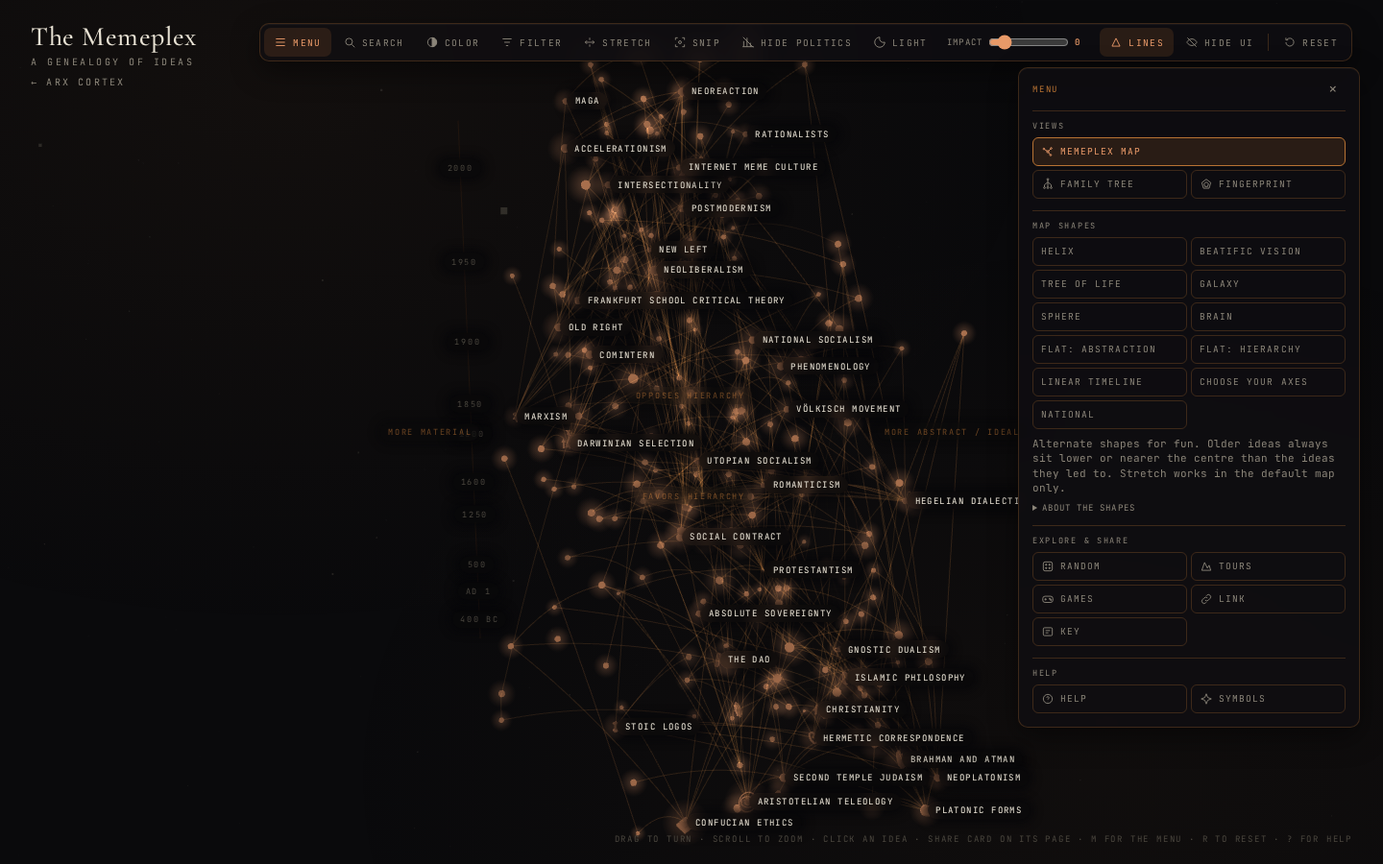
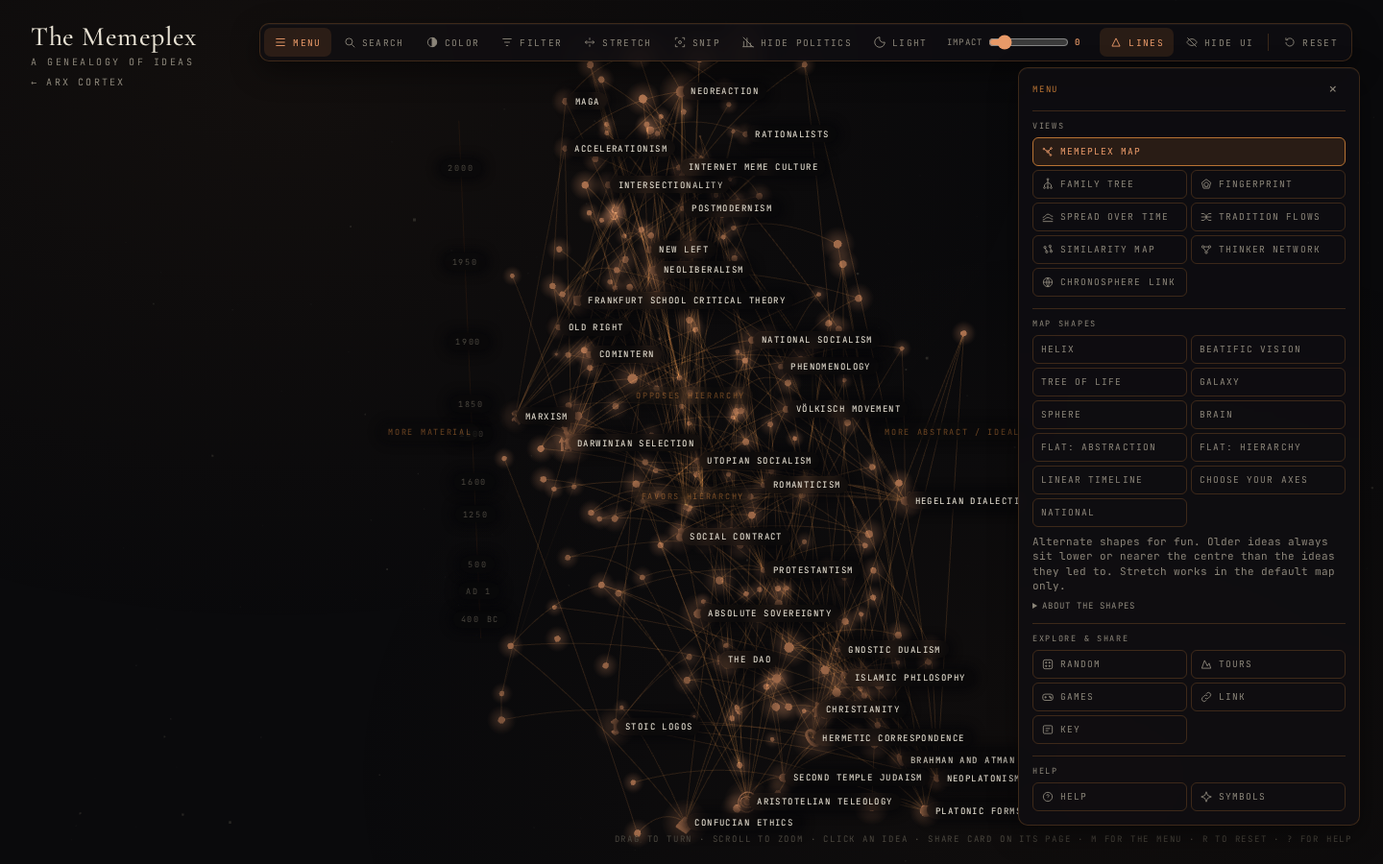
Similarity map, Thinker network and Chronosphere link views

diff --git a/docs/review-shots/snip-share/memeplex.html b/docs/review-shots/snip-share/memeplex.html
@@ -2290,7 +2290,7 @@ body.uihidden #vz{--vzt:14px!important}body.uihidden #vz .vc,body.uihidden #vz .
   let wasLight = document.body.classList.contains('light'), wasHid = false;
   new MutationObserver(() => { const l = document.body.classList.contains('light'), h = document.body.classList.contains('uihidden'); if (l !== wasLight || h !== wasHid) { wasLight = l; wasHid = h; if (cur) { top(); render(); } } }).observe(document.body, { attributes: true, attributeFilter: ['class'] });
   // an idea picked from search (or the map's panels) retargets views that follow one idea; Open page shows the usual idea panel
-  const onIdea = id => { if (skip || !cur || !V[cur].idea || !byId[id]) return false; V[cur].idea(P, id); render(); return true; };
+  const onIdea = id => { if (skip || !cur || !V[cur].idea || !byId[id]) return false; const was = JSON.stringify(P); V[cur].idea(P, id); if (JSON.stringify(P) === was) return false; render(); return true; }; // unchanged (e.g. no bridges): fall back to the idea page
   const page = id => { if (!byId[id]) return; skip = true; try { focusIdea(id); } finally { skip = false; } };
   // Snip & share: draw the visible chart (SVG rasterised) for the snipped rectangle, at the renderer's pixel ratio
   async function grab(r, k) { const out = document.createElement('canvas'); out.width = Math.max(1, Math.round(r.w * k)); out.height = Math.max(1, Math.round(r.h * k));
@@ -2445,6 +2445,160 @@ body.uihidden #vz{--vzt:14px!important}body.uihidden #vz .vc,body.uihidden #vz .
       const none = SI._none ? SI._none.w : 0;
       return { svg: Z.svg(W, ch + T0 * 2, g, `Tradition flows ${P.by === 'era' ? 'by era' : 'by country'}`),
         foot: `<b>How it is measured.</b> ${P.by === 'era' ? `Each of the ${ideas.length} ideas is one unit` : `Each country listing is one unit (${Math.round(total)} listings across ${T.length} countries; an idea listed by two countries counts once for each)`}, split equally among the root traditions it descends from through the lineage lines; a root idea counts for its own tradition, plus any older root it descends from. So an idea descended from Platonism and Christianity puts half a unit into each. ${none ? `${Math.round(none)} unit${Math.round(none) === 1 ? '' : 's'} come from ideas with no mapped root ancestor. ` : ''}Ribbon width is proportional to units. Hover a ribbon for its share; click a tradition for its family tree.` }; } });
+})();
+/* ---------- SIMILARITY MAP: ideas placed by their 24 axis scores only (lineage plays no part). Principal component analysis:
+   the two directions along which the score vectors vary most; power iteration from a fixed start, so the layout is deterministic. ---------- */
+(() => { const Z = window.__viz;
+  const PCA = (() => { const X = ideas.map(d => A.map(k => sc(d, k))), n = X.length, m = A.length, mu = A.map((_, j) => X.reduce((s, r) => s + r[j], 0) / n), Xc = X.map(r => r.map((v, j) => v - mu[j]));
+    const C = A.map((_, i) => A.map((_, j) => Xc.reduce((s, r) => s + r[i] * r[j], 0) / (n - 1))), tr = C.reduce((s, r, i) => s + r[i], 0), comps = [];
+    for (let c = 0; c < 2; c++) { let v = A.map((_, j) => 1 + j / m); for (let it = 0; it < 500; it++) { let w = C.map(r => r.reduce((s, x, j) => s + x * v[j], 0)); comps.forEach(([u]) => { const p = w.reduce((s, x, j) => s + x * u[j], 0); w = w.map((x, j) => x - p * u[j]); }); const nr = Math.hypot(...w) || 1; v = w.map(x => x / nr); }
+      const big = v.reduce((b, x, j) => Math.abs(x) > Math.abs(v[b]) ? j : b, 0); if (v[big] < 0) v = v.map(x => -x);
+      const lam = v.reduce((s, x, i) => s + x * C[i].reduce((t, y, j) => t + y * v[j], 0), 0); comps.push([v, lam]); }
+    const P = Object.fromEntries(ideas.map((d, i) => [d.id, comps.map(([v]) => Xc[i].reduce((s, x, j) => s + x * v[j], 0))]));
+    return { P, comps, tr, X: Object.fromEntries(ideas.map((d, i) => [d.id, X[i]])) }; })();
+  const dist = (a, b) => Math.hypot(...PCA.X[a].map((v, j) => v - PCA.X[b][j]));
+  const near = (id, k = 6) => ideas.filter(d => d.id !== id).map(d => [d.id, dist(id, d.id)]).sort((p, q) => p[1] - q[1] || p[0].localeCompare(q[0])).slice(0, k);
+  const load = c => { const v = PCA.comps[c][0]; return A.map((k, j) => [k, v[j]]).sort((p, q) => Math.abs(q[1]) - Math.abs(p[1])).slice(0, 3); };
+  const ends = c => { const L = load(c), pos = L.filter(q => q[1] > 0).map(q => axLabel(q[0])), neg = L.filter(q => q[1] < 0).map(q => axLabel(q[0]));
+    return [neg.length ? 'more ' + neg.join(', ') : 'less ' + pos.join(', '), pos.length ? 'more ' + pos.join(', ') : 'less ' + neg.join(', ')]; };
+  window.__simPCA = { pos: PCA.P, comps: PCA.comps.map(([v, l]) => [v.slice(), l / PCA.tr]), near };
+  Z.add('similar', { label: 'Similarity map', title: 'Similarity map: ideas placed by how alike their scores are, ignoring lineage', icon: '<circle cx="7" cy="8" r="2"/><circle cx="16" cy="6" r="2"/><circle cx="10" cy="16" r="2"/><circle cx="18" cy="15" r="2"/><path d="M7 8l3 8M16 6l2 9"/>',
+    keys: ['f'], defaults: () => ({ f: '' }), fix: P => { if (P.f && !byId[P.f]) P.f = ''; }, idea: (P, id) => { P.f = id; }, subject: P => P.f ? byId[P.f].name : '',
+    note: () => `Each idea is placed by its scores on all ${A.length} axes; lineage lines play no part. Ideas close together score alike, even if they never met. Click an idea to see its nearest neighbours.`,
+    controls: P => `<label>Idea <select data-p="f" aria-label="Highlight an idea">${Z.ideaOpts(P.f, ideas, '— none —')}</select></label>${P.f ? `<button type="button" data-open="${P.f}">Open idea page</button>` : ''}`,
+    links: k => [`.e[data-a="${k}"]`],
+    click: (P, id) => { if (!byId[id]) return; P.f = P.f === id ? '' : id; Z.render(); },
+    render(P, W, H) { const c = Z.pal(), mob = W < 560, M = mob ? 14 : 40, S = Math.max(300, Math.min(W - 2 * M, Math.max(H - 70, 360) * 1.25)), Hh = Math.max(300, Math.min(S * 0.78, mob ? S * 1.15 : H - 60));
+      const pts = Object.values(PCA.P), xs = pts.map(p => p[0]), ys = pts.map(p => p[1]), x0 = Math.min(...xs), x1 = Math.max(...xs), y0 = Math.min(...ys), y1 = Math.max(...ys);
+      const ox = (W - S) / 2, X = v => ox + 12 + (S - 24) * (v - x0) / (x1 - x0 || 1), Y = v => 20 + (Hh - 44) * (1 - (v - y0) / (y1 - y0 || 1)), J = (d, k) => (hash(d.id + '|sim' + k) - 0.5) * 6;
+      const at = {}; ideas.forEach(d => { const p = PCA.P[d.id]; at[d.id] = [X(p[0]) + J(d, 'x'), Y(p[1]) + J(d, 'y')]; });
+      const [ex0, ex1] = ends(0), [ey0, ey1] = ends(1), v0 = (100 * PCA.comps[0][1] / PCA.tr).toFixed(0), v1 = (100 * PCA.comps[1][1] / PCA.tr).toFixed(0);
+      let g = `<line x1="${ox + 12}" y1="${Y(0)}" x2="${ox + S - 12}" y2="${Y(0)}" stroke="${c.faint}" stroke-dasharray="2 4"/><line x1="${X(0)}" y1="20" x2="${X(0)}" y2="${Hh - 24}" stroke="${c.faint}" stroke-dasharray="2 4"/>
+        <text x="${ox + 12}" y="${Hh - 6}" font-size="9" class="dim">\u2190 ${esc(Z.short(ex0, mob ? 20 : 60))}</text><text x="${ox + S - 12}" y="${Hh - 6}" font-size="9" text-anchor="end" class="dim">${esc(Z.short(ex1, mob ? 20 : 60))} \u2192</text>
+        <text x="${ox + 14}" y="12" font-size="9" class="dim">\u2191 ${esc(Z.short(ey1, mob ? 44 : 70))}</text>`;
+      const sel = P.f && byId[P.f] ? P.f : '', nb = sel ? near(sel) : [];
+      nb.forEach(([k]) => { const [a1, b1] = at[sel], [a2, b2] = at[k]; g += `<line class="e" data-a="${sel}" x1="${a1}" y1="${b1}" x2="${a2}" y2="${b2}" stroke="${c.bright}" stroke-width="1.2" stroke-opacity=".8"/>`; });
+      const order = [...ideas].sort((a, b) => (a.imp || 0) - (b.imp || 0));
+      order.forEach(d => { const [x, y] = at[d.id], r = 2.6 + (d.imp || 0) / 28, on = d.id === sel || nb.some(q => q[0] === d.id), nn = near(d.id, 3).map(q => byId[q[0]].name).join(', ');
+        g += `<g class="nd${on ? ' on' : ''}" data-id="${d.id}" tabindex="0" role="button" aria-label="${esc(d.name)}" data-tip="${esc(d.name)} · ${esc(fmtYear(d.year, d.year_approx))} · most alike: ${esc(nn)}"><circle cx="${x}" cy="${y}" r="${r}" fill="${Z.famCol(d)}" fill-opacity="${sel && !on ? 0.35 : 0.9}" stroke="${d.id === sel ? c.ink : c.bg}" stroke-width="${d.id === sel ? 2 : 0.6}"/><circle cx="${x}" cy="${y}" r="${Math.max(r, 8)}" fill="transparent"/></g>`; });
+      // labels: selected + neighbours first, then by impact, skipping any that would overlap
+      const boxes = [], lab = []; [...(sel ? [sel, ...nb.map(q => q[0])] : []), ...[...ideas].sort((a, b) => (b.imp || 0) - (a.imp || 0)).map(d => d.id)].forEach(id => { if (lab.length >= (mob ? 22 : 60) && id !== sel && !nb.some(q => q[0] === id)) return;
+        if (lab.includes(id)) return; const [x, y] = at[id], t = Z.short(byId[id].name, 26), w = t.length * 5.6 + 4, b = [x + 5, y - 11, x + 5 + w, y + 1]; if (b[2] > W - 2) { b[0] -= w + 10; b[2] -= w + 10; }
+        if (boxes.some(q => b[0] < q[2] && b[2] > q[0] && b[1] < q[3] && b[3] > q[1])) return; boxes.push(b); lab.push(id);
+        g += `<text x="${b[0]}" y="${y - 2}" font-size="9.5" style="pointer-events:none${id === sel ? ';font-weight:700' : ''}" ${id === sel || nb.some(q => q[0] === id) ? 'class="amb"' : ''}>${esc(t)}</text>`; });
+      const foot = (sel ? `<b>Most alike to ${esc(byId[sel].name)}</b> (straight-line distance across all ${A.length} scores): ${nb.map(([k, v]) => `<button type="button" data-open="${k}">${esc(byId[k].name)} ${v.toFixed(1)}</button>`).join(' ')}<br>` : '') +
+        `<b>How it is placed.</b> Principal component analysis of the ${ideas.length} \u00d7 ${A.length} score table (every axis, including stances and tone). Across: the direction in which scores vary most (${v0}% of all variation; its biggest weights: ${load(0).map(q => `${esc(axLabel(q[0]))} ${q[1] > 0 ? '+' : '\u2212'}`).join(', ')}). Up: the next one (${v1}%; ${load(1).map(q => `${esc(axLabel(q[0]))} ${q[1] > 0 ? '+' : '\u2212'}`).join(', ')}). Together they show ${+v0 + +v1}% of the variation, so two ideas can sit close here and still differ on other axes; the neighbour list uses all ${A.length} scores. Ideas with identical scores are nudged a few pixels apart. Dot size is impact; colour is the root tradition.`;
+      return { svg: Z.svg(W, Hh, g, 'Similarity map of ideas by their scores'), foot }; } });
+})();
+
+/* ---------- THINKER NETWORK: thinkers linked when they are named on the same idea; the line is thicker for more shared ideas.
+   Deterministic force layout (seeded start, fixed number of steps). ---------- */
+(() => { const Z = window.__viz;
+  const T = {}; ideas.forEach(d => [...new Set(d.thinkers || [])].forEach(t => (T[t] = T[t] || []).push(d.id)));
+  const names = Object.keys(T).sort(), ix = Object.fromEntries(names.map((t, i) => [t, i])), E = {};
+  ideas.forEach(d => { const L = [...new Set(d.thinkers || [])].sort(); for (let i = 0; i < L.length; i++) for (let j = i + 1; j < L.length; j++) { const q = ix[L[i]] + '|' + ix[L[j]]; E[q] = (E[q] || 0) + 1; } });
+  const edges = Object.entries(E).map(([q, w]) => { const [a, b] = q.split('|').map(Number); return [a, b, w]; }), adj = names.map(() => new Set()); edges.forEach(([a, b]) => { adj[a].add(b); adj[b].add(a); });
+  // components; "connected" = components that join two or more ideas
+  const comp = new Array(names.length).fill(-1); let nc = 0; names.forEach((_, i) => { if (comp[i] >= 0) return; const q = [i]; comp[i] = nc; while (q.length) { const k = q.pop(); adj[k].forEach(j => { if (comp[j] < 0) { comp[j] = nc; q.push(j); } }); } nc++; });
+  const cIdeas = {}; names.forEach((t, i) => T[t].forEach(d => (cIdeas[comp[i]] = cIdeas[comp[i]] || new Set()).add(d)));
+  const inMode = (m, i) => m === 'all' || cIdeas[comp[i]].size >= 2;
+  const cache = {};
+  const layout = m => { if (cache[m]) return cache[m]; const N = names.map((_, i) => i).filter(i => inMode(m, i)), id = Object.fromEntries(N.map((i, k) => [i, k])), n = N.length;
+    const x = N.map(i => (hash(names[i] + 'x') - 0.5) * 400), y = N.map(i => (hash(names[i] + 'y') - 0.5) * 400), E2 = edges.filter(([a, b]) => id[a] != null && id[b] != null);
+    for (let it = 0; it < 320; it++) { const fx = new Float64Array(n), fy = new Float64Array(n), t = 1 - it / 320;
+      for (let a = 0; a < n; a++) for (let b = a + 1; b < n; b++) { let dx = x[a] - x[b], dy = y[a] - y[b], d2 = dx * dx + dy * dy + 0.01; if (d2 > 90000) continue; const f = 900 / d2; fx[a] += dx * f; fy[a] += dy * f; fx[b] -= dx * f; fy[b] -= dy * f; }
+      E2.forEach(([p, q, w]) => { const a = id[p], b = id[q], dx = x[b] - x[a], dy = y[b] - y[a], d = Math.hypot(dx, dy) || 0.01, f = (d - 22) * 0.06 * Math.min(2, w); fx[a] += dx / d * f; fy[a] += dy / d * f; fx[b] -= dx / d * f; fy[b] -= dy / d * f; });
+      for (let a = 0; a < n; a++) { fx[a] -= x[a] * 0.012; fy[a] -= y[a] * 0.012; const l = Math.hypot(fx[a], fy[a]), cap = 12 * t + 0.5; if (l > cap) { fx[a] *= cap / l; fy[a] *= cap / l; } x[a] += fx[a]; y[a] += fy[a]; } }
+    return (cache[m] = { N, x, y, E2 }); };
+  window.__thinkers = { names, T, edges, comp, layout, inMode };
+  Z.add('thinkers', { label: 'Thinker network', title: 'Thinker network: thinkers linked when they share an idea', icon: '<circle cx="6" cy="7" r="2"/><circle cx="18" cy="7" r="2"/><circle cx="12" cy="17" r="2"/><path d="M8 7h8M7 9l4 6M17 9l-4 6"/>',
+    keys: ['m', 'f'], defaults: () => ({ m: 'linked', f: '' }), fix: P => { if (P.m !== 'all') P.m = 'linked'; if (P.f && (!T[P.f] || !inMode(P.m, ix[P.f]))) P.f = ''; },
+    subject: P => P.f || (P.m === 'all' ? 'all thinkers' : 'linked thinkers'),
+    note: P => `Thinkers are linked when the map names them on the same idea; a thicker line means more shared ideas. ${P.m === 'all' ? 'All' : 'Showing the'} ${layout(P.m).N.length} thinkers${P.m === 'all' ? '' : ' in groups that span two or more ideas'}. Click a thinker for their ideas.`,
+    controls: P => `<button type="button" data-set="m=linked" aria-pressed="${P.m === 'linked'}">Linked</button><button type="button" data-set="m=all" aria-pressed="${P.m === 'all'}">All thinkers</button><label>Thinker <select data-p="f" aria-label="Thinker"><option value="">— none —</option>${layout(P.m).N.map(i => names[i]).sort((a, b) => a.localeCompare(b)).map(t => `<option value="${esc(t)}"${t === P.f ? ' selected' : ''}>${esc(t)}</option>`).join('')}</select></label>`,
+    links: k => [`.e[data-a="${k}"]`, `.e[data-b="${k}"]`],
+    click: (P, k) => { const t = names[+String(k).slice(1)]; if (!t) return; P.f = P.f === t ? '' : t; Z.render(); },
+    render(P, W, H) { const c = Z.pal(), mob = W < 560, L = layout(P.m), Hh = Math.max(mob ? 460 : 420, Math.min(H - 60, 900)), xs = L.x, ys = L.y;
+      const x0 = Math.min(...xs), x1 = Math.max(...xs), y0 = Math.min(...ys), y1 = Math.max(...ys), s = Math.min((W - 40) / (x1 - x0 || 1), (Hh - 40) / (y1 - y0 || 1));
+      const X = k => W / 2 + (xs[k] - (x0 + x1) / 2) * s, Y = k => Hh / 2 + (ys[k] - (y0 + y1) / 2) * s, sel = P.f ? ix[P.f] : -1, kOf = Object.fromEntries(L.N.map((i, k) => [i, k]));
+      let g = ''; L.E2.forEach(([a, b, w]) => { const on = a === sel || b === sel; g += `<line class="e${on ? ' on' : ''}" data-a="t${a}" data-b="t${b}" x1="${X(kOf[a])}" y1="${Y(kOf[a])}" x2="${X(kOf[b])}" y2="${Y(kOf[b])}" stroke="${on ? c.bright : c.dim}" stroke-opacity="${on ? 0.95 : 0.35}" stroke-width="${0.6 + w * 0.9}"/>`; });
+      const nbr = sel >= 0 ? adj[sel] : new Set();
+      L.N.forEach((i, k) => { const t = names[i], n = T[t].length, r = 2.4 + n * 1.4, d0 = byId[T[t][0]], on = i === sel || nbr.has(i);
+        g += `<g class="nd${on ? ' on' : ''}" data-k="t${i}" tabindex="0" role="button" aria-label="${esc(t)}, ${n} idea${n > 1 ? 's' : ''}" data-tip="${esc(t)} · ${T[t].map(id => byId[id].name).slice(0, 4).map(esc).join(', ')}${n > 4 ? ' …' : ''}"><circle cx="${X(k)}" cy="${Y(k)}" r="${r}" fill="${Z.famCol(d0)}" fill-opacity="${sel >= 0 && !on ? 0.3 : 0.92}" stroke="${i === sel ? c.ink : c.bg}" stroke-width="${i === sel ? 2 : 0.6}"/><circle cx="${X(k)}" cy="${Y(k)}" r="${Math.max(r, 7)}" fill="transparent"/></g>`; });
+      const boxes = []; [...(sel >= 0 ? [sel, ...nbr] : []), ...L.N.filter(i => T[names[i]].length >= 2).sort((a, b) => T[names[b]].length - T[names[a]].length)].forEach(i => { const k = kOf[i]; if (k == null) return; const t = Z.short(names[i], 22), w = t.length * 5.6, bx = [X(k) + 6, Y(k) - 10, X(k) + 6 + w, Y(k) + 2];
+        if (bx[2] > W) { bx[0] -= w + 12; bx[2] -= w + 12; } if (boxes.some(q => bx[0] < q[2] && bx[2] > q[0] && bx[1] < q[3] && bx[3] > q[1])) return; boxes.push(bx);
+        g += `<text x="${bx[0]}" y="${Y(k) - 1}" font-size="9.5" style="pointer-events:none" ${i === sel ? 'class="amb" font-weight="700"' : nbr.has(i) ? 'class="amb"' : ''}>${esc(t)}</text>`; });
+      const bridges = names.filter(t => T[t].length >= 2).length;
+      const foot = (sel >= 0 ? (() => { const t = names[sel], u = thinkerUrl(t); return `<b>${esc(t)}</b>${u ? ` (<a href="${esc(u)}" target="_blank" rel="noopener">Grokipedia</a>)` : ''}: ${T[t].map(id => `<button type="button" data-open="${id}">${esc(byId[id].name)}</button>`).join(' ')}${nbr.size ? `<br>Linked to ${nbr.size}: ${[...nbr].map(j => esc(names[j])).join(', ')}` : ''}<br>`; })() : '') +
+        `<b>How it is built.</b> ${names.length} thinkers are named on ideas; two are linked if they appear on the same idea (${edges.length} links). ${bridges} thinkers appear on more than one idea and tie the groups together. Dot size is the number of ideas; colour is the root tradition of the thinker's first idea. Positions come from a force layout: linked thinkers pull together, all push apart.`;
+      return { svg: Z.svg(W, Hh, g, 'Thinker network'), foot }; } });
+})();
+
+/* ---------- CHRONOSPHERE LINK: ideas that have bridges (lenses/bridges.json in chronosphere-data, read at runtime) shown on a
+   timeline beside the Chronosphere events tied to them; each event links into chronosphere.html. ---------- */
+(() => { const Z = window.__viz;
+  const CHRONO_BRIDGES = 'https://arxcortex.github.io/chronosphere-data/lenses/bridges.json';
+  let data = null, err = null, busy = null;
+  const get = () => busy || (busy = fetch(CHRONO_BRIDGES, { cache: 'no-cache' }).then(r => r.ok ? r.json() : Promise.reject(r.status))
+    .catch(() => fetch('./bridges.json', { cache: 'no-cache' }).then(r => r.ok ? r.json() : Promise.reject(r.status)))
+    .then(o => { if (!o || !Array.isArray(o.bridges)) throw new Error('no bridges'); data = o; }).catch(e => { err = String(e); }).then(() => { if (Z.cur === 'chrono') Z.render(); }));
+  /* link = deep_links.chronosphere template; {hash_head} from hash_heads[lens] (old data: geo -> history, others keep the lens name),
+     {year} = event_year, {region} = globe, {event_slug} = the event. Never returns an unfilled {placeholder}. */
+  const head = (b, o) => { const h = o && o.hash_heads && o.hash_heads[b.lens]; return h || (b.lens === 'geo' ? 'history' : b.lens); };
+  const link = (b, o) => { const hh = head(b, o), yr = b.event_year ?? b.era_year, base = `chronosphere.html#${hh}/${yr}/globe/${b.event_slug}`;
+    const t = o && o.deep_links && typeof o.deep_links.chronosphere === 'string' ? o.deep_links.chronosphere : null; if (!t) return base;
+    const s = t.replace(/\{hash_head\}|\{lens\}/g, hh).replace(/\{year\}/g, yr).replace(/\{region\}/g, 'globe').replace(/\{event_slug\}/g, b.event_slug);
+    return /\{[^}]*\}/.test(s) ? base : s; };
+  /* the template is relative to Chronosphere's own site; resolve it there unless this page is served from that site */
+  const CHRONO_SITE = 'https://arxcortex.io/';
+  const href = (b, o) => { const u = link(b, o); try { return new URL(u, /(^|\.)arxcortex\.io$/.test(location.hostname) ? location.href : CHRONO_SITE).href; } catch (e) { return CHRONO_SITE + u; } };
+  /* greedy label lanes: items sorted by x go to the first lane whose last label has ended (else the least crowded) */
+  /* returns lane k, or -1-k when nothing is free (draw in lane k, skip the label) */
+  const lanes = (L, n) => { const end = Array(n).fill(-1e9), out = new Map(); [...L].sort((a, b) => a.x - b.x).forEach(o => { let k = end.findIndex(e => e < o.x), fit = k >= 0; if (!fit) k = end.indexOf(Math.min(...end)); out.set(o.k, fit ? k : -1 - k); if (fit) end[k] = o.x + o.w; }); return out; };
+  const REL = { opens: 'Opens', peaks: 'Peaks', context: 'Context', closes: 'Closes' };
+  const evName = b => b.event_slug.replace(/^[a-z]+-/, '').replace(/-\d+$/, '').replace(/-/g, ' ').replace(/^./, m => m.toUpperCase());
+  const byIdea = () => { const m = {}; (data ? data.bridges : []).forEach(b => { if (byId[b.idea_id] && b.event_slug) (m[b.idea_id] = m[b.idea_id] || []).push(b); }); Object.values(m).forEach(L => L.sort((a, b) => a.event_year - b.event_year)); return m; };
+  window.__chrono = { link, href, head, get, get data() { return data; } };
+  Z.add('chrono', { label: 'Chronosphere link', title: 'Chronosphere link: bridged ideas on a timeline beside their Chronosphere events', icon: '<circle cx="12" cy="12" r="8"/><path d="M4 12h16M12 4c3 3 3 13 0 16M12 4c-3 3-3 13 0 16"/>',
+    keys: ['f'], defaults: () => ({ f: '' }), fix: P => { if (data) { const m = byIdea(); if (!m[P.f]) P.f = Object.keys(m).sort((a, b) => byId[a].year - byId[b].year)[0] || ''; } },
+    idea: (P, id) => { if (data && byIdea()[id]) P.f = id; }, subject: P => P.f && byId[P.f] ? byId[P.f].name : '',
+    note: () => 'Ideas that Chronosphere ties to its events. Top: the chosen idea\u2019s own timeline, with its parents above and its children below, beside its events. Below: every bridged idea, founding year to today, with its events as dots.',
+    controls: P => { const m = byIdea(); return data ? `<label>Idea <select data-p="f" aria-label="Bridged idea">${Z.ideaOpts(P.f, Object.keys(m).map(k => byId[k]))}</select></label>${P.f ? `<button type="button" data-open="${P.f}">Open idea page</button>` : ''}` : ''; },
+    click: (P, id) => { if (byId[id] && byIdea()[id]) { P.f = id; Z.render(); } },
+    render(P, W, H) { const c = Z.pal(), mob = W < 560;
+      if (!data) { if (!err) get(); return { svg: Z.svg(W, 80, `<text x="${W / 2}" y="44" text-anchor="middle" font-size="11" class="dim">${err ? 'Could not load bridges.json from chronosphere-data.' : 'Loading bridges from Chronosphere\u2026'}</text>`, 'Chronosphere link'),
+        foot: err ? `The bridges file is read from <a href="${CHRONO_BRIDGES}" target="_blank" rel="noopener">${CHRONO_BRIDGES}</a>, with a bridges.json beside this page as a fallback.` : '' }; }
+      { const m0 = byIdea(); if (!m0[P.f]) P.f = Object.keys(m0).sort((a, b) => byId[a].year - byId[b].year || a.localeCompare(b))[0] || ''; }
+      const m = byIdea(), ids = Object.keys(m).sort((a, b) => byId[a].year - byId[b].year || a.localeCompare(b)), d = byId[P.f], ev = m[P.f] || [], RC = { opens: c.bright, peaks: c.amber, context: c.dim, closes: c.ink };
+      const L = mob ? 10 : 200, R = mob ? 10 : 24; let g = '', y = 8;
+      // detail timeline (linear years, padded)
+      if (d) { const par = (d.parents || []).filter(k => byId[k]).map(k => byId[k]), ch = d.children.map(k => byId[k]), yrs = [d.year, ...ev.map(b => b.event_year), ...par.map(p => p.year), ...ch.map(q => q.year)];
+        let a = Math.min(...yrs), b = Math.max(...yrs, Math.min(2026, d.year + 50)); const pad = Math.max(10, (b - a) * 0.06); a -= pad; b += pad;
+        const x = v => (mob ? 12 : 30) + (W - (mob ? 24 : 60)) * (v - a) / (b - a), base = y + 122, cw = 5.1;
+        const pl = lanes(par.map(p => ({ k: p.id, x: x(p.year), w: 14 + Z.short(p.name, 22).length * cw })), 3), cl = lanes(ch.map(q => ({ k: q.id, x: x(q.year), w: 12 + Z.short(q.name, 20).length * cw })), 4),
+          el = lanes(ev.map((e, i) => ({ k: i, x: x(e.event_year), w: 14 + (Z.short(evName(e), mob ? 14 : 22).length + 6) * cw })), 3);
+        g += `<text x="${mob ? 12 : 30}" y="${y + 10}" font-size="11" font-weight="700" class="amb">${esc(d.name)}</text><line x1="${x(a)}" y1="${base}" x2="${x(b)}" y2="${base}" stroke="${c.faint}"/>`;
+        const step = [1, 5, 10, 25, 50, 100, 250, 500, 1000].find(s => (b - a) / s <= (mob ? 5 : 9)) || 1000; for (let t = Math.ceil(a / step) * step; t <= b; t += step) g += `<line x1="${x(t)}" y1="${base - 3}" x2="${x(t)}" y2="${base + 3}" stroke="${c.faint}"/><text x="${x(t)}" y="${base + 15}" font-size="8.5" text-anchor="middle" class="dim">${Z.yr(t)}</text>`;
+        g += `<line x1="${x(d.year)}" y1="${base}" x2="${x(b)}" y2="${base}" stroke="${c.bright}" stroke-width="3" stroke-opacity=".5"/><path d="M${x(d.year)},${base - 7} l7,7 -7,7 -7,-7z" fill="${c.bright}"/><text x="${x(d.year)}" y="${base + 27}" font-size="9" text-anchor="middle" class="amb">founded ${esc(fmtYear(d.year, d.year_approx))}</text>`;
+        par.forEach((p, i) => { const px = x(p.year), pk = pl.get(p.id), py = y + 26 + (pk < 0 ? -1 - pk : pk) * 13; g += `<g data-id="${p.id}" data-tip="Parent: ${esc(p.name)} · ${esc(fmtYear(p.year, p.year_approx))}"><line x1="${px}" y1="${py + 3}" x2="${x(d.year)}" y2="${base - 7}" stroke="${c.amber}" stroke-opacity=".45"/><circle cx="${px}" cy="${py}" r="3" fill="${c.amber}"/><text x="${px + 5}" y="${py + 3}" font-size="8.5" class="dim">${esc(Z.short(p.name, 22))}</text></g>`; });
+        ch.forEach((q, i) => { const qx = x(q.year), qk = cl.get(q.id), qy = base + 44 + (qk < 0 ? -1 - qk : qk) * 12; g += `<g data-id="${q.id}" data-tip="Child: ${esc(q.name)} · ${esc(fmtYear(q.year, q.year_approx))}"><circle cx="${qx}" cy="${qy}" r="2.6" fill="${c.ink}" fill-opacity=".7"/>${qk < 0 || qx + 5 + Z.short(q.name, 20).length * cw > W - 2 ? '' : `<text x="${qx + 5}" y="${qy + 3}" font-size="8" class="dim">${esc(Z.short(q.name, 20))}</text>`}</g>`; });
+        ev.forEach((e, i) => { const ex = x(e.event_year), ek = el.get(i), ey = base - 22 - (ek < 0 ? -1 - ek : ek) * 15, u = href(e, data);
+          g += `<a href="${esc(u)}" target="_blank" rel="noopener" aria-label="${esc(evName(e))}, ${e.event_year}, open in Chronosphere"><g data-k="ev${i}" data-tip="${esc(evName(e))} · ${e.event_year} · ${esc(REL[e.relation] || e.relation || '')} · ${esc(e.note || '')} · opens in Chronosphere"><line x1="${ex}" y1="${ey}" x2="${ex}" y2="${base}" stroke="${RC[e.relation] || c.ink}" stroke-dasharray="2 2"/><rect x="${ex - 5}" y="${ey - 5}" width="10" height="10" transform="rotate(45 ${ex} ${ey})" fill="${RC[e.relation] || c.ink}"/>${(() => { const t = `${Z.short(evName(e), mob ? 14 : 22)} ${e.event_year}`, fl = ex + 9 + t.length * cw > W - 4; return `<text x="${fl ? ex - 9 : ex + 9}" y="${ey + 3}" font-size="8.5" ${fl ? 'text-anchor="end"' : ''} fill="${RC[e.relation] || c.ink}">${esc(t)}</text>`; })()}</g></a>`; });
+        y = base + 44 + Math.min(4, ch.length) * 12 + 18; }
+      // overview: every bridged idea, one row each
+      const KN = [[-100, 0], [0, 0.12], [1000, 0.3], [1500, 0.48], [1800, 0.72], [1900, 0.84], [2030, 1]], uu = v => { if (v <= KN[0][0]) return 0; for (let i = 1; i < KN.length; i++) if (v <= KN[i][0]) return KN[i - 1][1] + (KN[i][1] - KN[i - 1][1]) * (v - KN[i - 1][0]) / (KN[i][0] - KN[i - 1][0]); return 1; };
+      const ox = L, ow = W - L - R, X = v => ox + ow * uu(v), RH = mob ? 30 : 20;
+      g += `<text x="${mob ? 12 : 30}" y="${y + 6}" font-size="9" letter-spacing="1.4" class="dim">ALL BRIDGED IDEAS · ${ids.length}</text>`; y += 18;
+      [0, 1000, 1500, 1800, 1900, 2000].forEach(t => { g += `<line x1="${X(t)}" y1="${y}" x2="${X(t)}" y2="${y + ids.length * RH}" stroke="${c.faint}" stroke-dasharray="2 4"/><text x="${X(t)}" y="${y + ids.length * RH + 12}" font-size="8.5" text-anchor="middle" class="dim">${Z.yr(t)}</text>`; });
+      ids.forEach((k, i) => { const q = byId[k], yy = y + i * RH + (mob ? 20 : 10), on = k === P.f;
+        g += `<g class="nd${on ? ' on' : ''}" data-id="${k}" tabindex="0" role="button" aria-label="${esc(q.name)}, ${m[k].length} events" data-tip="${esc(q.name)} · ${m[k].length} Chronosphere event${m[k].length > 1 ? 's' : ''}">${on ? `<rect x="2" y="${yy - (mob ? 20 : 10)}" width="${W - 4}" height="${RH}" fill="${c.bright}" fill-opacity=".1"/>` : ''}
+          <text x="${mob ? 12 : L - 10}" y="${mob ? yy - 7 : yy + 3}" font-size="${mob ? 9 : 9.5}" ${mob ? '' : 'text-anchor="end"'} ${on ? 'class="amb" font-weight="700"' : ''}>${esc(Z.short(q.name, mob ? 40 : 30))}</text>
+          <line x1="${X(q.year)}" y1="${yy}" x2="${X(2026)}" y2="${yy}" stroke="${Z.famCol(q)}" stroke-width="2" stroke-opacity=".6"/><circle cx="${X(q.year)}" cy="${yy}" r="3.4" fill="${Z.famCol(q)}"/>
+          ${m[k].map(e => `<rect x="${X(e.event_year) - 3.5}" y="${yy - 3.5}" width="7" height="7" transform="rotate(45 ${X(e.event_year)} ${yy})" fill="${RC[e.relation] || c.ink}" stroke="${c.bg}" stroke-width=".8"/>`).join('')}</g>`; });
+      y += ids.length * RH + 22;
+      const foot = (d ? `<b>${esc(d.name)} in Chronosphere:</b> ${ev.map(e => `<a href="${esc(href(e, data))}" target="_blank" rel="noopener">${esc(evName(e))} (${e.event_year})</a> <span>${esc(REL[e.relation] || e.relation || '')}, ${esc(e.lens)} lens${e.note ? ': ' + esc(e.note) : ''}</span>`).join(' · ')}<br>` : '') +
+        `<b>How it is built.</b> ${data.bridges.length} bridges from Chronosphere's bridges.json (${data.status || 'draft'}) tie ${ids.length} ideas to events. Diamonds are events: bright = opens the idea, copper = a peak, grey = context. Each event links into Chronosphere at that year and event. The overview's time axis gives AD 1, 1000, 1500, 1800 and 1900 a fixed share of the width.`;
+      return { svg: Z.svg(W, y, g, 'Chronosphere link'), foot }; } });
 })();
 </script>
 </body>

diff --git a/docs/review-shots/snip-share/t_views3.py b/docs/review-shots/snip-share/t_views3.py
@@ -1,0 +1,109 @@
+# Similarity map + Thinker network + Chronosphere link test (desktop + phone). Run from this folder: python3 t_views3.py
+import asyncio,subprocess,sys,json,re,itertools
+from playwright.async_api import async_playwright
+R='../../../'
+I=json.load(open(R+'ideas.json')); B={d['id']:d for d in I}
+BR=[{"idea_id":"protestantism","lens":"religion","era_year":1517,"event_year":1517,"lat":51.8678,"lon":12.6465,"event_slug":"religion-95-theses-1517","relation":"opens","note":"Luther posts the 95 Theses."},
+    {"idea_id":"protestantism","lens":"geo","era_year":1517,"event_year":1517,"lat":51.866,"lon":12.648,"event_slug":"geo-luther-s-ninety-five-theses-1517","relation":"opens","note":"Geo-lens view."},
+    {"idea_id":"protestantism","lens":"religion","era_year":1517,"event_year":1521,"lat":49.63,"lon":8.36,"event_slug":"religion-diet-of-worms-1521","relation":"peaks","note":"Worms."},
+    {"idea_id":"roman_catholicism","lens":"religion","era_year":1054,"event_year":1054,"lat":41.0,"lon":28.9,"event_slug":"religion-the-great-schism-1054","relation":"opens","note":"Schism."},
+    {"idea_id":"not_an_idea","lens":"geo","era_year":1,"event_year":1,"event_slug":"geo-x-1","relation":"context"}]
+NEW={"name":"Bridges","version":0,"status":"draft","bridges":BR,"deep_links":{"memeplex":"memeplex.html#i={idea_id}","chronosphere":"chronosphere.html#{hash_head}/{year}/{region}/{event_slug}"},"hash_heads":{"geo":"history","religion":"religion"}}
+OLD={"name":"Bridges","version":0,"status":"draft","bridges":BR,"deep_links":{"memeplex":"memeplex.html#i={idea_id}","chronosphere":"chronosphere.html#{lens}/{year}/{region}/{event_slug}"}}
+WANT={'religion-95-theses-1517':'chronosphere.html#religion/1517/globe/religion-95-theses-1517','geo-luther-s-ninety-five-theses-1517':'chronosphere.html#history/1517/globe/geo-luther-s-ninety-five-theses-1517',
+      'religion-diet-of-worms-1521':'chronosphere.html#religion/1521/globe/religion-diet-of-worms-1521'}
+async def run():
+  srv=subprocess.Popen(["python3","-m","http.server","8793"],stdout=subprocess.DEVNULL,stderr=subprocess.DEVNULL)
+  await asyncio.sleep(1); fail=[]; errs=[]
+  async with async_playwright() as p:
+    b=await p.chromium.launch(args=["--use-gl=swiftshader","--enable-webgl","--ignore-gpu-blocklist"])
+    for tag,vp,mob in [('desk',dict(width=1440,height=900),False),('phone',dict(width=390,height=844),True)]:
+      async def page(url,br=NEW):
+        ctx=await b.new_context(viewport=vp,is_mobile=mob,has_touch=mob,device_scale_factor=2 if mob else 1); pg=await ctx.new_page(); pg.on("pageerror",lambda e:errs.append(f"{tag}: {e}"))
+        for f in ['ideas.json','thinkers.json','axes.json','currents.json','impact.json','national.json','politics.json']:
+          await pg.route("**/arx-memeplex/"+f,(lambda f:(lambda r,q=None:r.fulfill(status=200,content_type="application/json",body=open(R+f).read())))(f))
+        await pg.route("**/chronosphere-data/lenses/bridges.json",lambda r,q=None:r.fulfill(status=200,content_type="application/json",body=json.dumps(br)))
+        await pg.add_init_script("localStorage.setItem('memeplex-help-seen','1')")
+        await pg.goto("http://localhost:8793/memeplex.html?intro=none"+url); await pg.wait_for_function("window.__viz && window.__views && !__views.busy",timeout=30000,polling=500); await pg.wait_for_timeout(2500)
+        return ctx,pg
+      ctx,pg=await page('')
+      # similarity: PCA is deterministic and uses scores only; neighbours match a 24-d distance computed here
+      await pg.click('#menubtn'); await pg.wait_for_timeout(200); await pg.click('#menu [data-vz=similar]'); await pg.wait_for_timeout(800)
+      r=await pg.evaluate("({n:document.querySelectorAll('#vz .nd[data-id]').length,c:__simPCA.comps.map(q=>q[1]),p:__simPCA.pos['stoic_logos']})")
+      AX=[a['id'] for a in json.load(open(R+'axes.json'))]
+      def dist(a,b2): return sum((B[a]['ratings'].get(k,0)-B[b2]['ratings'].get(k,0))**2 for k in AX)**.5
+      if r['n']!=len(I): fail.append((tag,'sim nodes',r['n']))
+      if not (r['c'][0]>=r['c'][1]>0): fail.append((tag,'pca variance',r['c']))
+      await pg.select_option('#vz select[data-p=f]','stoicism' if 'stoicism' in B else 'stoic_logos'); await pg.wait_for_timeout(600)
+      sel=await pg.evaluate("__viz.P.f"); nb=await pg.evaluate("__simPCA.near(__viz.P.f).map(q=>q[0])")
+      want=[k for k,_ in sorted(((d['id'],dist(sel,d['id'])) for d in I if d['id']!=sel),key=lambda q:(round(q[1],9),q[0]))[:6]]
+      if [round(dist(sel,k),6) for k in nb]!=[round(dist(sel,k),6) for k in want]: fail.append((tag,'neighbours',nb,want))
+      lines=await pg.evaluate("document.querySelectorAll('#vz line.e').length")
+      if lines!=6: fail.append((tag,'neighbour lines',lines))
+      ctx2_pos=r['p']
+      await pg.screenshot(path=f"views-{tag}-similar.png")
+      await pg.wait_for_timeout(500); h=await pg.evaluate("location.hash")
+      if 'v=similar' not in h or 'f='+sel not in h: fail.append((tag,'sim hash',h))
+      await pg.evaluate("document.getElementById('themebtn').click()"); await pg.wait_for_timeout(900); await pg.screenshot(path=f"views-{tag}-similar-light.png"); await pg.evaluate("document.getElementById('themebtn').click()"); await pg.wait_for_timeout(400)
+      # thinker network: edges = pairs of thinkers named on the same idea
+      E=set(); T={}
+      for d in I:
+        L=sorted(set(d.get('thinkers',[])))
+        for t in L: T.setdefault(t,set()).add(d['id'])
+        for a,c in itertools.combinations(L,2): E.add((a,c))
+      await pg.evaluate("__viz.open('thinkers',{m:'all'})"); await pg.wait_for_timeout(1500)
+      r=await pg.evaluate("({n:document.querySelectorAll('#vz .nd').length,e:document.querySelectorAll('#vz line.e').length,tE:__thinkers.edges.length})")
+      print(tag,'thinkers all',r,len(T),len(E))
+      if r['n']!=len(T) or r['e']!=len(E) or r['tE']!=len(E): fail.append((tag,'thinker graph',r,len(T),len(E)))
+      await pg.screenshot(path=f"views-{tag}-thinkers-all.png")
+      await pg.click('#vz [data-set="m=linked"]'); await pg.wait_for_timeout(1500)
+      multi=sorted(T,key=lambda t:-len(T[t]))[0]
+      await pg.select_option('#vz select[data-p=f]',multi); await pg.wait_for_timeout(600)
+      r=await pg.evaluate("({on:document.querySelectorAll('#vz line.e.on').length,foot:document.querySelector('#vz .vf').textContent,n:document.querySelectorAll('#vz .nd').length})")
+      wantn=len({b2 for a,b2 in E if a==multi}|{a for a,b2 in E if b2==multi})
+      print(tag,'thinker',multi,r['on'],wantn,r['n'])
+      if r['on']!=wantn: fail.append((tag,'thinker links',multi,r['on'],wantn))
+      await pg.screenshot(path=f"views-{tag}-thinkers.png")
+      await pg.wait_for_timeout(500); h=await pg.evaluate("location.hash")
+      if 'v=thinkers' not in h or 'f=' not in h: fail.append((tag,'thinker hash',h))
+      # chronosphere link: bridges read at runtime, links from the template with hash_heads
+      await pg.evaluate("__viz.open('chrono',{f:'protestantism'})"); await pg.wait_for_function("window.__chrono && __chrono.data",timeout=10000); await pg.wait_for_timeout(600)
+      r=await pg.evaluate("({links:[...document.querySelectorAll('#vz a[href*=chronosphere]')].map(a=>a.getAttribute('href')),rows:[...document.querySelectorAll('#vz .nd[data-id]')].map(g=>g.dataset.id),f:__viz.P.f})")
+      print(tag,'chrono',r)
+      for slug,u in WANT.items():
+        if 'https://arxcortex.io/'+u not in r['links']: fail.append((tag,'chrono link',slug,u))
+      if any(re.search(r'\{[^}]*\}',u) for u in r['links']): fail.append((tag,'placeholder left'))
+      if sorted(r['rows'])!=['protestantism','roman_catholicism'] or r['f']!='protestantism': fail.append((tag,'chrono rows',r['rows']))
+      await pg.screenshot(path=f"views-{tag}-chrono.png")
+      # snip in the chrono view
+      await pg.evaluate("document.querySelector('#tb button[data-k=snip]').click()"); await pg.wait_for_timeout(300)
+      W,H=vp['width'],vp['height']; await pg.mouse.move(int(W*.04),int(H*.2)); await pg.mouse.down(); await pg.mouse.move(int(W*.5),int(H*.5),steps=4); await pg.mouse.move(int(W*.96),int(H*.75),steps=4); await pg.mouse.up()
+      await pg.wait_for_function("window.__snipLast",timeout=15000); await pg.wait_for_timeout(800)
+      link=await pg.evaluate("__snipLast.link")
+      if 'v=chrono' not in link or 'f=protestantism' not in link: fail.append((tag,'chrono snip',link))
+      await pg.screenshot(path=f"views-{tag}-chrono-snip.png"); await pg.evaluate("document.querySelector('#snipmod .x').click()")
+      # search: an idea without bridges falls back to its page; one with bridges retargets
+      await pg.evaluate("__memeplex.focusIdea('roman_catholicism')"); await pg.wait_for_timeout(400)
+      if await pg.evaluate("__viz.P.f")!='roman_catholicism': fail.append((tag,'chrono retarget'))
+      await ctx.close()
+      # old data: no hash_heads, {lens} template -> geo still becomes history; template substitution for both lenses
+      ctx,pg=await page('#v=chrono&f=protestantism',OLD); await pg.wait_for_timeout(5200)
+      r=await pg.evaluate("({links:[...document.querySelectorAll('#vz a[href*=chronosphere]')].map(a=>a.getAttribute('href')),cur:__viz.cur})")
+      print(tag,'old data',r)
+      for slug,u in WANT.items():
+        if 'https://arxcortex.io/'+u not in r['links']: fail.append((tag,'old-data link',slug,u))
+      if any('#geo/' in u or re.search(r'\{[^}]*\}',u) for u in r['links']): fail.append((tag,'old-data geo/placeholder',r['links']))
+      u=await pg.evaluate("""()=>[__chrono.link({lens:'geo',event_year:1066,event_slug:'geo-hastings-1066'},{deep_links:{chronosphere:'chronosphere.html#{hash_head}/{year}/{region}/{event_slug}'},hash_heads:{geo:'history'}}),
+        __chrono.link({lens:'religion',event_year:325,event_slug:'religion-nicaea-325'},{deep_links:{chronosphere:'chronosphere.html#{hash_head}/{year}/{region}/{event_slug}'},hash_heads:{geo:'history',religion:'religion'}}),
+        __chrono.link({lens:'geo',event_year:1066,event_slug:'geo-hastings-1066'},{deep_links:{chronosphere:'chronosphere.html#{lens}/{year}/{region}/{event_slug}'}}),
+        __chrono.link({lens:'religion',event_year:325,event_slug:'religion-nicaea-325'},{deep_links:{chronosphere:'chronosphere.html#{hash_head}/{year}/{unknown}/{event_slug}'}}),
+        __chrono.link({lens:'geo',era_year:1000,event_slug:'geo-x-1000'},null)]""")
+      exp=['chronosphere.html#history/1066/globe/geo-hastings-1066','chronosphere.html#religion/325/globe/religion-nicaea-325','chronosphere.html#history/1066/globe/geo-hastings-1066','chronosphere.html#religion/325/globe/religion-nicaea-325','chronosphere.html#history/1000/globe/geo-x-1000']
+      if u!=exp: fail.append((tag,'template substitution',u))
+      await ctx.close()
+      ctx,pg=await page('#v=thinkers&m=linked',NEW); await pg.wait_for_timeout(5200)
+      if not await pg.evaluate("__viz.cur==='thinkers'&&__viz.P.m==='linked'"): fail.append((tag,'thinker link restore'))
+      await ctx.close()
+    await b.close()
+  srv.terminate(); print('errors',errs,'FAILS',fail); sys.exit(1 if fail or errs else 0)
+asyncio.run(run())

diff --git a/docs/review-shots/snip-share/README.md b/docs/review-shots/snip-share/README.md
@@ -28,3 +28,11 @@ Test: `python3 t_views.py` (desktop and phone). Screenshots: `views-*-menu.png`,
 - **Tradition flows** (`v=flows&by=era|country`): a Sankey from root traditions to eras (by founding year) or to countries. Every idea is one unit, split equally among the root traditions it descends from. Ideas with no mapped root go to "No mapped root". By country, each country listing is one unit: the religions and philosophies in national.json plus ideas aligned with that country's parties in politics.json. Click a tradition for its family tree.
 
 Test: `python3 t_views2.py` (desktop and phone; checks every stream's counts and the flow totals against the data). Screenshots: `views-*-spread*.png`, `views-*-flows*.png`.
+
+## Similarity map, Thinker network and Chronosphere link
+
+- **Similarity map** (`v=similar&f=<id>`): every idea placed by principal component analysis of its 24 axis scores (stances and tone); lineage plays no part. Across is the direction in which scores vary most, up is the next; the page states each one's share of the variation and its biggest weights. The layout is deterministic (fixed start vector, sign fixed). The chosen idea's nearest neighbours are by straight-line distance across all 24 scores, so they can differ from what looks closest in 2D. Ideas with identical scores are nudged a few pixels apart.
+- **Thinker network** (`v=thinkers&m=linked|all&f=<thinker>`): one dot per thinker named on an idea; two thinkers are linked when they appear on the same idea, with a thicker line for more shared ideas. **Linked** (default) shows the groups that span two or more ideas; **All thinkers** shows everyone. The layout is a seeded force layout, the same on every load.
+- **Chronosphere link** (`v=chrono&f=<id>`): ideas tied to Chronosphere events by `lenses/bridges.json` in chronosphere-data, read at runtime from its GitHub Pages copy (or a `bridges.json` beside this page). Top: the chosen idea's timeline with parents, children and its events; below: every bridged idea. Each event links to `deep_links.chronosphere` with `{hash_head}` from `hash_heads[lens]`, `{year}` the event year, `{region}` `globe` and `{event_slug}` the event, resolved against arxcortex.io. Older bridges files without `hash_heads` map `geo` to `history` and keep other lens names. A link never contains an unfilled `{…}`.
+
+Test: `python3 t_views3.py` (desktop and phone; uses its own bridges fixture in the new and old formats). Screenshots: `views-*-similar*.png`, `views-*-thinkers*.png`, `views-*-chrono*.png`.
